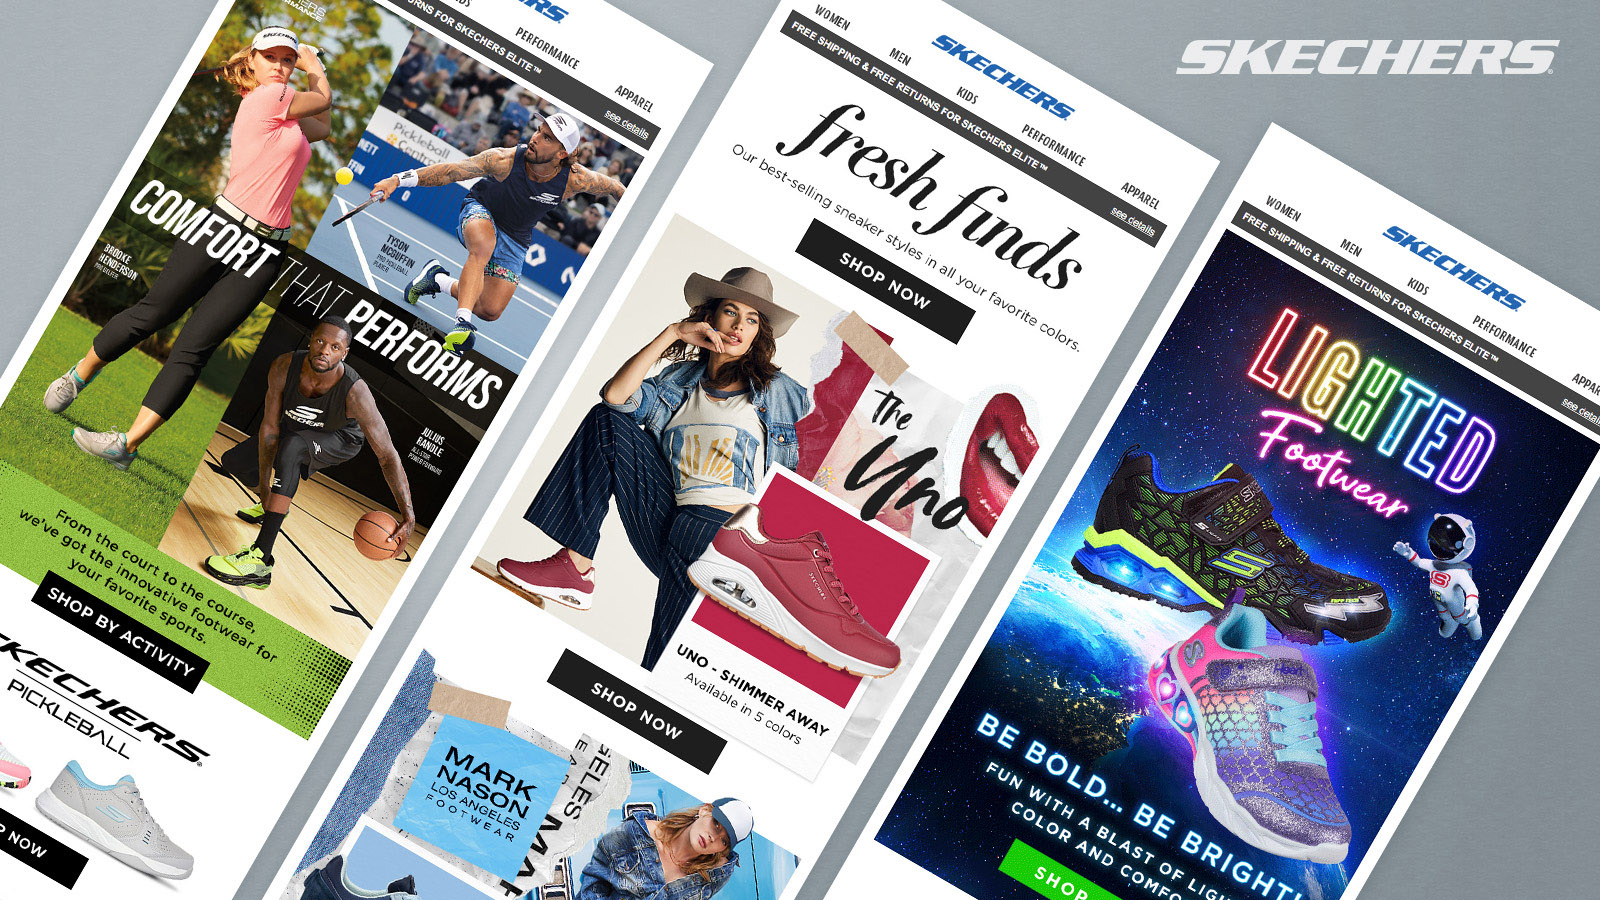
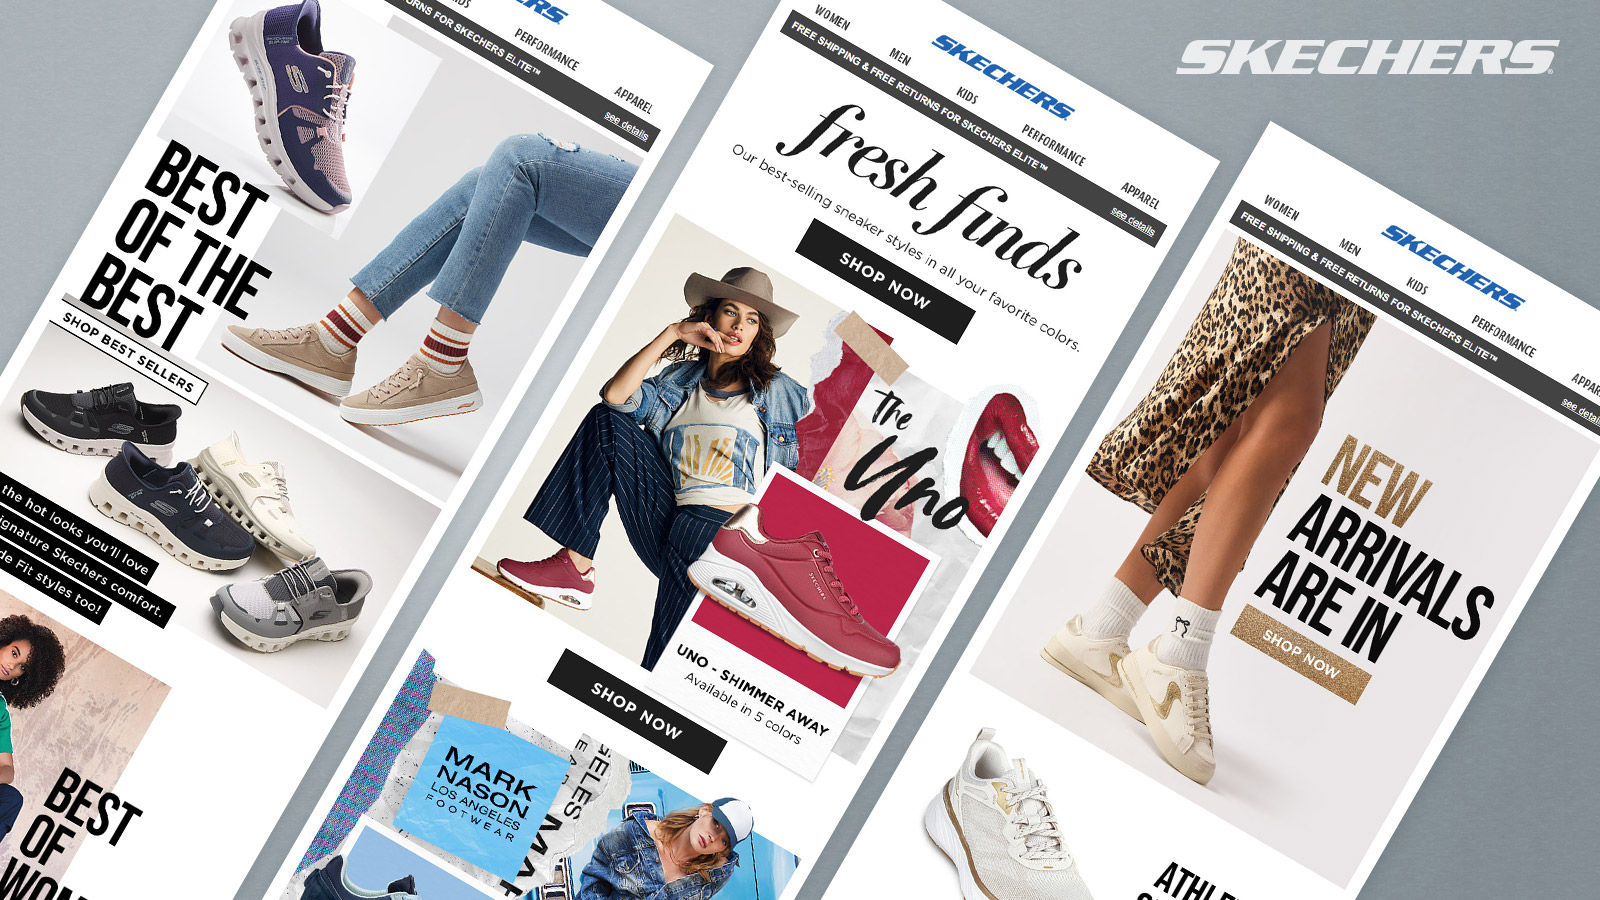
update

diff --git a/portfolio/projects_skechers_email-blast.html b/portfolio/projects_skechers_email-blast.html
@@ -55,13 +55,14 @@
 						<p>Skechers USA is a global footwear brand offering lifestyle and high-performance shoes for men, women, and children. The company is dedicated to developing and marketing top-quality footwear that caters to a wide range of preferences and needs. As one of the largest footwear brands in the world, Skechers USA continues to push the boundaries of innovation and style, while maintaining a commitment to exceptional quality and customer satisfaction.</p>
 					</div>
 
+					<img src="assets/projects/skechers/email-blast/skechers_email-blast_skx66462.jpg" alt="Skechers Email Blast" title="Skechers Email Blast" align="top">
 
 					<div class="skechers_bg align_bg"> 
 						<div class="align_wrapper_wide">
 <!-- EML - PRODUCT -->
+							<img class="align_image_email-blast" src="assets/projects/skechers/email-blast/skechers_email-blast_eml67154.jpg" alt="Skechers Email Blast" title="Skechers Email Blast" align="top">
+							<img class="align_image_email-blast" src="assets/projects/skechers/email-blast/skechers_email-blast_eml66742.jpg" alt="Skechers Email Blast" title="Skechers Email Blast" align="top">
 							<img class="align_image_email-blast" src="assets/projects/skechers/email-blast/skechers_email-blast_eml49634.jpg" alt="Skechers Email Blast" title="Skechers Email Blast" align="top">
-							<img class="align_image_email-blast" src="assets/projects/skechers/email-blast/skechers_email-blast_eml50373.gif" alt="Skechers Email Blast" title="Skechers Email Blast" align="top">
-							<img class="align_image_email-blast" src="assets/projects/skechers/email-blast/skechers_email-blast_eml50761.gif" alt="Skechers Email Blast" title="Skechers Email Blast" align="top">							
 <!-- EML - MULTICATEGORY - WOMEN -->
 							<img class="align_image_email-blast" src="assets/projects/skechers/email-blast/skechers_email-blast_eml57122.jpg" alt="Skechers Email Blast" title="Skechers Email Blast" align="top">
 							<img class="align_image_email-blast" src="assets/projects/skechers/email-blast/skechers_email-blast_eml49047.gif" alt="Skechers Email Blast" title="Skechers Email Blast" align="top">
@@ -86,6 +87,12 @@
 							<img class="align_image_email-blast" src="assets/projects/skechers/email-blast/skechers_email-blast_eml47468.jpg" alt="Skechers Email Blast" title="Skechers Email Blast" align="top">
 							<img class="align_image_email-blast" src="assets/projects/skechers/email-blast/skechers_email-blast_eml62340.jpg" alt="Skechers Email Blast" title="Skechers Email Blast" align="top">
 							<img class="align_image_email-blast" src="assets/projects/skechers/email-blast/skechers_email-blast_eml50801.jpg " alt="Skechers Email Blast" title="Skechers Email Blast" align="top">
+<!-- EML - PRODUCT -->
+							<img class="align_image_email-blast" src="assets/projects/skechers/email-blast/skechers_email-blast_eml50373.gif" alt="Skechers Email Blast" title="Skechers Email Blast" align="top">
+							<img class="align_image_email-blast" src="assets/projects/skechers/email-blast/skechers_email-blast_eml50761.gif" alt="Skechers Email Blast" title="Skechers Email Blast" align="top">
+							<img class="align_image_email-blast" src="assets/projects/skechers/email-blast/skechers_email-blast_eml67293.jpg" alt="Skechers Email Blast" title="Skechers Email Blast" align="top">		
+
+
 <!-- EML - COLLAB -->
 							<img class="align_image_email-blast" src="assets/projects/skechers/email-blast/skechers_email-blast_eml42092.gif" alt="Skechers Email Blast" title="Skechers Email Blast" align="top">
 							<img class="align_image_email-blast" src="assets/projects/skechers/email-blast/skechers_email-blast_eml58947.gif" alt="Skechers Email Blast" title="Skechers Email Blast" align="top">
